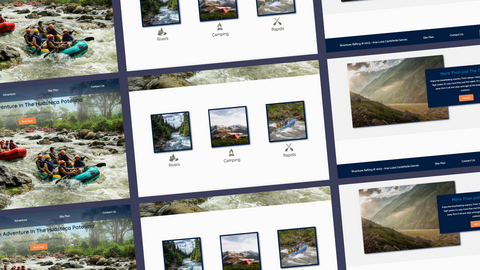
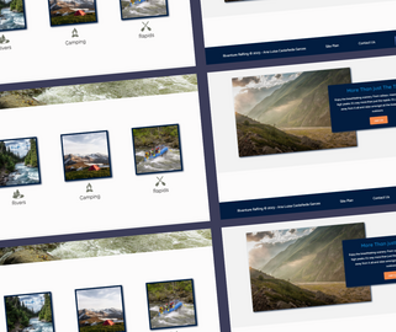
updated the projects page

diff --git a/personalsite/projects.html b/personalsite/projects.html
@@ -23,55 +23,95 @@
             <img class="menu" src="images/menu-icon.png" alt="Four Squares Menu Icon"> 
         </a>
     </header>  
-    <main>
-        <h1>Projects</h1>
-        <section id="python" class="language">
-            <h2 class="language-name">
-                Python
-            </h2>
-            <img src="images/game-o.png" alt="Screenshots of a python code">
+    <main id="projects_main">
+        <div class="msg">
+            <h1>Projects</h1>
+        </div>
+        <div id="projects_div">
+            <section id="python" class="language">
+                <h2 class="language-name">
+                    Python
+                </h2>
 
-            <div>
-                <h3 class="project-title">Choose your own adventure game</h3>
-                <p>It is a story where the user can choose what the adventure’s hero does in their quest to find a treasure. Includes ASCII art in some of the decisions the user chooses. While detecting if the input placed by the user when choosing an option is valid.</p>
-            </div>
+                <div class="control-width">
+                    <a href="https://github.com/aluisacast/python-projects/blob/main/Adventure_Gamepy.py">
+                        <div class="card">
+                            <div class="container">
+                                <img src="images/adventure.png" alt="image of code">
+                              <h4><b>Choose your own adventure game</b></h4>
+                              <p>It is a story where the user can choose what the adventure’s hero does in their quest to find a treasure. Includes ASCII art in some of the decisions the user chooses. While detecting if the input placed by the user when choosing an option is valid.</p>
+                            </div>
+                          </div>
+                    </a>
+                </div>
+    
+                <div class="control-width">
+                    <a href="https://github.com/aluisacast/python-projects/blob/main/Word_Game.py">
+                        <div class="card">
+                            <div class="container">
+                                <img src="images/wordgame.png" alt="image of code">
+                              <h4><b>Wordle type game</b></h4>
+                              <p>Game where a user can guess a word from a list. It compares the amount of letters in the input and in the guess word. It gives hints of the placement of the letters. Perceives the number of guesses the user needed to guess the word. It will continue to loop until the user wants to stop playing.</p>
+                            </div>
+                          </div>
+                    </a>
+                </div>
+    
+                <div class="control-width">
+                    <a href="https://github.com/aluisacast/python-projects/blob/main/LifeExpectancy_DataAnalysis.py">
+                        <div class="card">
+                            <div class="container">
+                                <img src="images/lifeexpectancy.png" alt="image of code">
+                              <h4><b>Data analysis, Life expectancy</b></h4>
+                              <p>Reading and analysis of the chosen variables of the user for the 1523 -2019 World Life Expectancy. The user can compare the Life Expectancy by country, year, or the overall max and min life expectancy in the world.</p>
+                            </div>
+                          </div>
+                    </a>
+                </div>
+    
+                <div class="control-width">
+                    <a href="https://github.com/aluisacast/python-projects/blob/main/Shopping_Cart_Program.py">
+                        <div class="card">
+                            <div class="container">
+                                <img src="images/shoppingcart.png" alt="image of code">
+                              <h4><b>Shopping cart program</b></h4>
+                              <p>A shopping cart where you can add new products with their prices, mmodify the price, the product or both, compute total with and without local taxes, and visualize the shopping cart.</p>
+                            </div>
+                          </div>
+                    </a>
+                </div>
+    
+            </section>
+            <section id="web" class="language">
+                <h2 class="language-name">
+                    HTML & CSS
+                </h2>  
+    
+                <div class="control-width">
+                    <a href="https://aluisacast.github.io/wdd130-coding/wwr/index.html">
+                        <div class="card">
+                            <div class="container">
+                                <img src="images/riventure.png" alt="Riventure logo">
+                                <h4><b>White Water Rafting Site</b></h4>
+                                <p>Webpage that offers services for a white-water rafting company. Site Plan, where the Logo, color palette and font where chosen. Design of the Wireframes and development of child pages.</p>
+                            </div>
+                          </div>
+                    </a>
+                </div>
+            </section>
+        </div>
 
-            <div>
-                <h3 class="project-title">Wordle type game</h3>
-                <p>Game where a user can guess a word from a list. It compares the amount of words the user places in the input and the amount of letters in the guess word. It gives hints, of the placement of the letters. Perceives the number of guesses the user needed to guess the word. It will continue to loop until the user wants to stop playing.</p>
-            </div>
-
-            <div>
-                <h3 class="project-title">Data analysis, Life expectancy</h3>
-                <p> Reading and analysis of the chosen variables of the user for the 1523 -2019 World Life Expectancy. The user can compare the Life Expectancy by country, year, or the overall max and min life expectancy in the world.</p>
-            </div>
-
-            <div>
-                <h3 class="project-title">Shopping cart program</h3>
-                <p>A shopping cart where you can add new products with their prices, mmodify the price, the product or both, compute total with and without local taxes, and visualize the shopping cart.</p>
-            </div>
-        </section>
-        <section id="html&css" class="language">
-            <h2 class="language-name">
-                HTML & CSS
-            </h2>  
-            <img src="images/adventure-o.png" alt="Screenshots of a webpage">
-
-            <div>
-                <h3 class="project-title">White Water Rafting Site</h3>
-                <p> Webpage that offers services for a white-water rafting company. Site Plan, where the Logo, color palette and font where chosen. Design of the Wireframes and development of child pages.
-                </p>
-            </div>
-        </section>
+        
     </main>
     <footer>
         <p> Ana Luisa Castañeda Garces &copy; 2023</p>
-
+        <a href="projects.html">Projects</a>
+        <a href="contact.html">Contact</a>
         <div class="social">
-            <a href="https://github.com/aluisacast" target="_blank">
+            <a class="social_logo" href="https://github.com/aluisacast" target="_blank">
                 <img src="images/github-icon.png" alt="Github icon">
             </a>
-            <a href="https://www.linkedin.com/in/alcast/" target="_blank">
+            <a class="social_logo" href="https://www.linkedin.com/in/alcast/" target="_blank">
                 <img src="images/linkedin-square-color-icon.png" alt="LinkedIn icon">
             </a>
         </div>

diff --git a/personalsite/styles/style.css b/personalsite/styles/style.css
@@ -177,3 +177,67 @@ footer a:visited {
 #img_quote {
     margin-left: 120px;
 }
+
+/* -------------------------- */
+#projects_main {
+    margin: 10px 50px 0px;
+    
+}
+
+#projects_div {
+    display: grid;
+    grid-template-columns: 1fr 1fr;
+}
+
+.language-name {
+    text-align: center;
+}
+
+.language img {
+    display: block;
+    margin-left: auto;
+    margin-right: auto;
+    margin-top: 15px;
+    width: 300px;
+    box-sizing: border-box;
+
+}
+
+.card {
+/* Add shadows to create the "card" effect */
+    box-shadow: 0 4px 8px 0 #010326;
+    transition: 0.3s;
+    width: 500px;
+    height: 500px;
+}
+
+/* On mouse-over, add a deeper shadow */
+.card:hover {
+    box-shadow: 0 8px 16px 0 #010326;
+}
+
+/* Add some padding inside the card container */
+.container {
+    padding: 2px 16px;
+}
+.control-width { 
+    width: 70%; 
+    margin: auto; 
+    padding: 30px;
+}
+
+.card2:hover { box-shadow: 0 8px 16px 0 #010326; }
+
+
+#projects_div a {
+    text-decoration: none;
+    color: inherit;
+}
+
+#projects_div p {
+    font-size: 17px;
+}
+
+#web img {
+    width: 250px;
+}

diff --git a/personalsite/site-plan.html b/personalsite/site-plan.html
@@ -176,7 +176,7 @@
       </p>
 
       <p>Images for the Page 2</p>
-        <img src="images/adventure-o.png" alt="white water rafting website">
+        <img src="images/riventure.png" alt="white water rafting website">
         <img src="images/game-o.png" alt="choose your fate game">
 
       </ul>

diff --git a/component/component.html b/component/component.html
@@ -5,7 +5,7 @@
 </head>
 <style>
     body {
-        margin: 50px;
+        margin: 30px;
     }
     .card {
     /* Add shadows to create the "card" effect */
